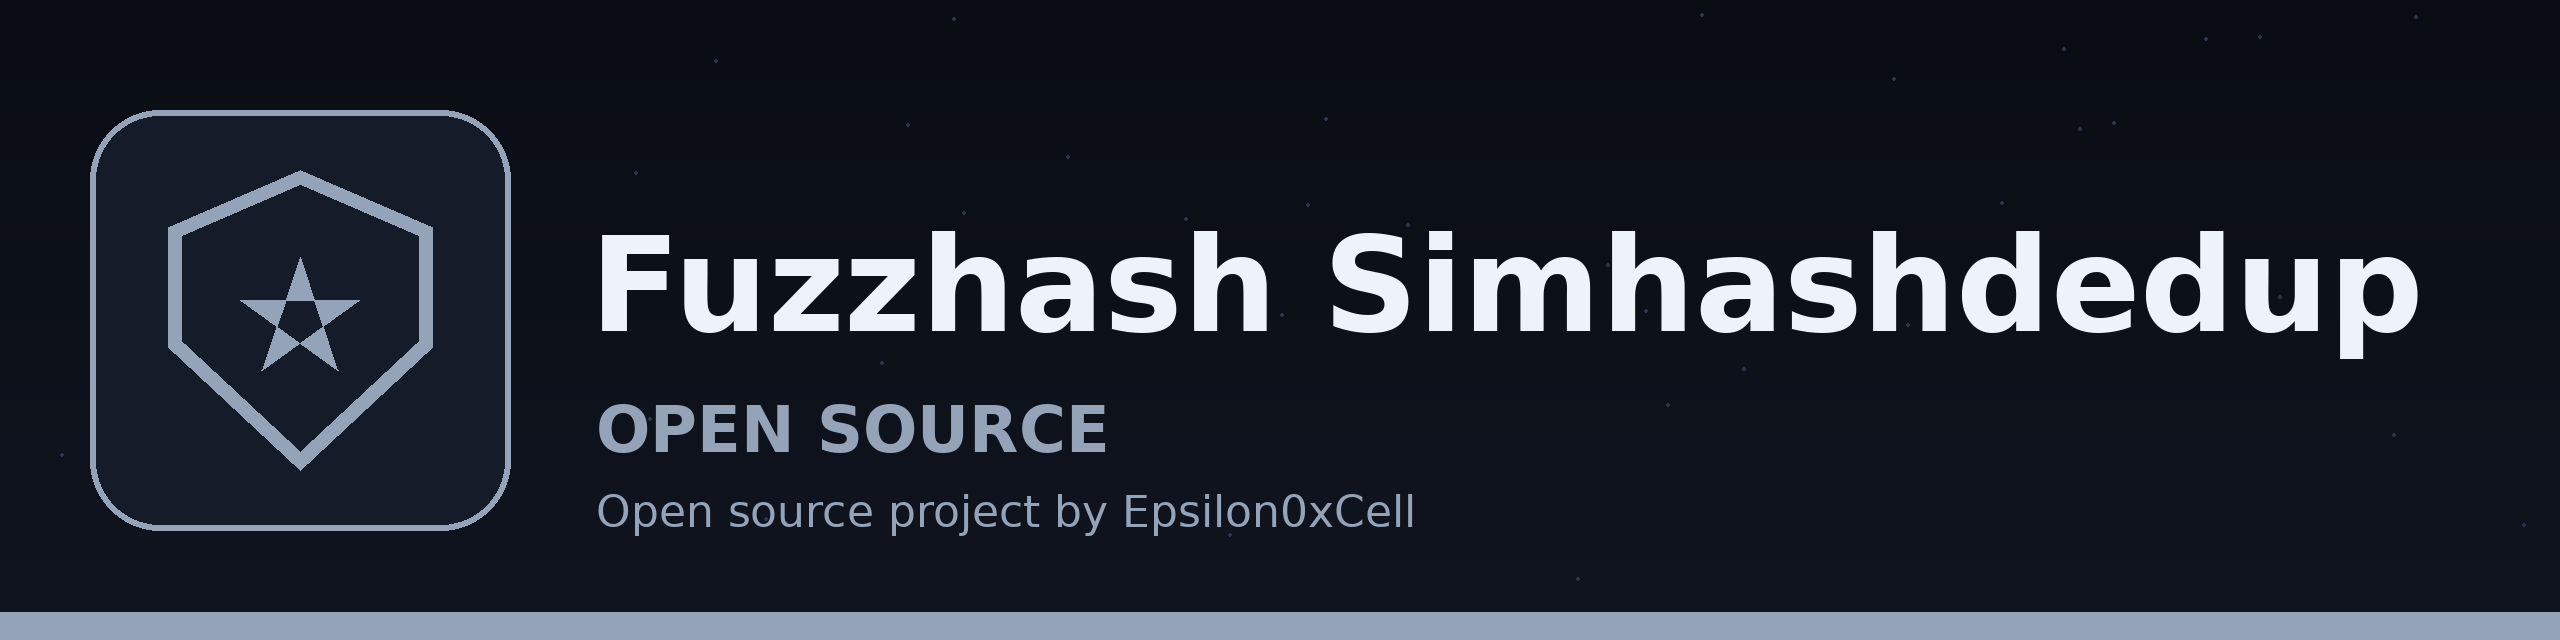
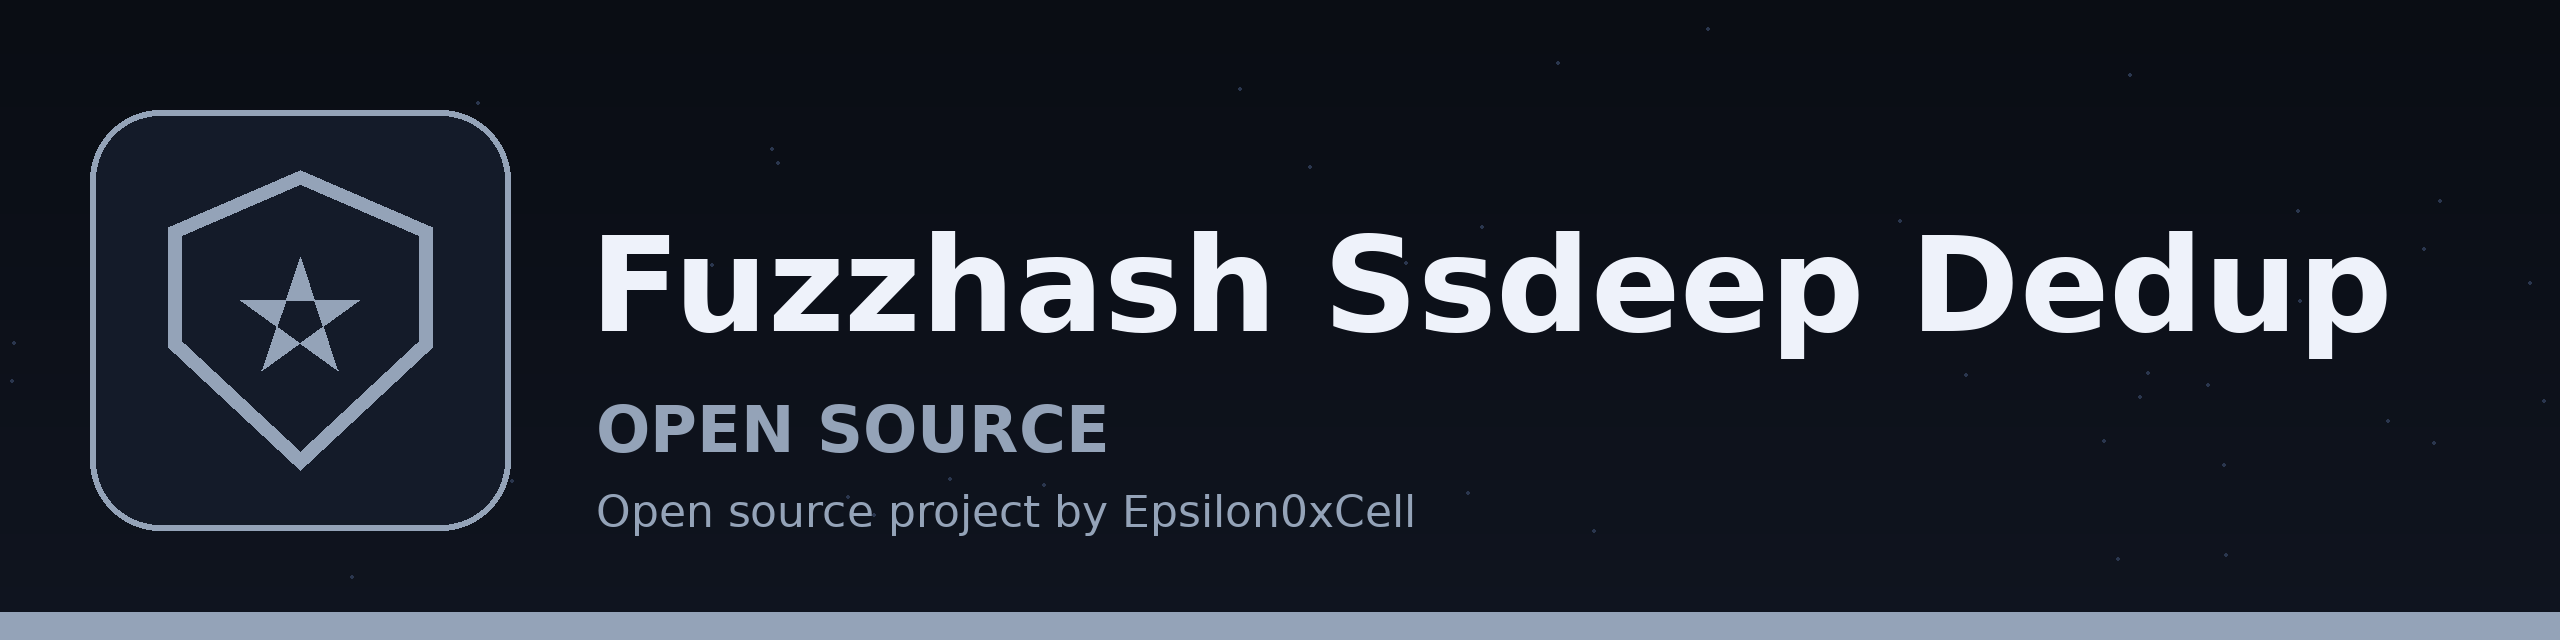
Update branding and README title for rename to fuzzhash-ssdeep-dedup

Changed region(s): [[0.5312, 0.3438, 0.9688, 0.5625]]

diff --git a/README.md b/README.md
@@ -1,13 +1,13 @@
 ![Banner](banner.png)
 
-# fuzzhash-SimHashDedup
+# fuzzhash-ssdeep-dedup
 Command-line utility that uses SimHash to find near-duplicate files within a given directory, reporting on identified clusters of similar files. - Focused on Calculates fuzzy hashes (e.g., ssdeep) and strong hashes (e.g., xxhash) of files and directories to identify similar files, even with slight variations. Useful for malware analysis, code reuse detection, and identifying near-duplicate data. Provides command-line and API access for integration with other security tools.
 
 ## Install
-`git clone https://github.com/ShadowStrikeHQ/fuzzhash-simhashdedup`
+`git clone https://github.com/ShadowStrikeHQ/fuzzhash-ssdeep-dedup`
 
 ## Usage
-`./fuzzhash-simhashdedup [params]`
+`./fuzzhash-ssdeep-dedup [params]`
 
 ## Parameters
 - `-h`: Show help message and exit
